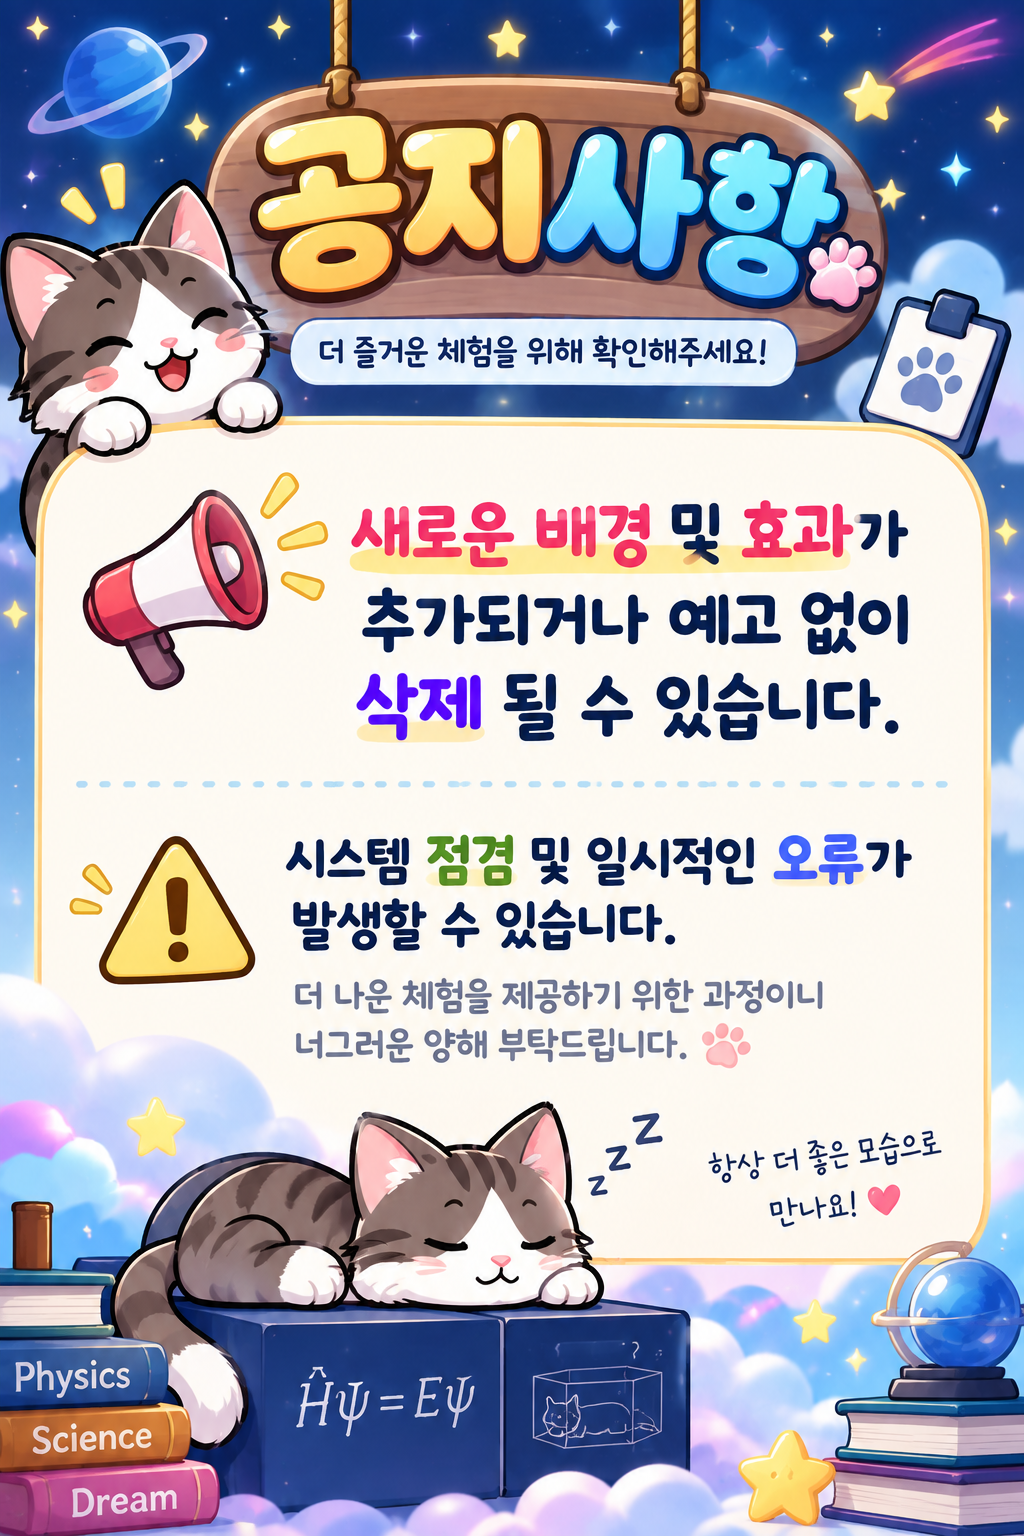
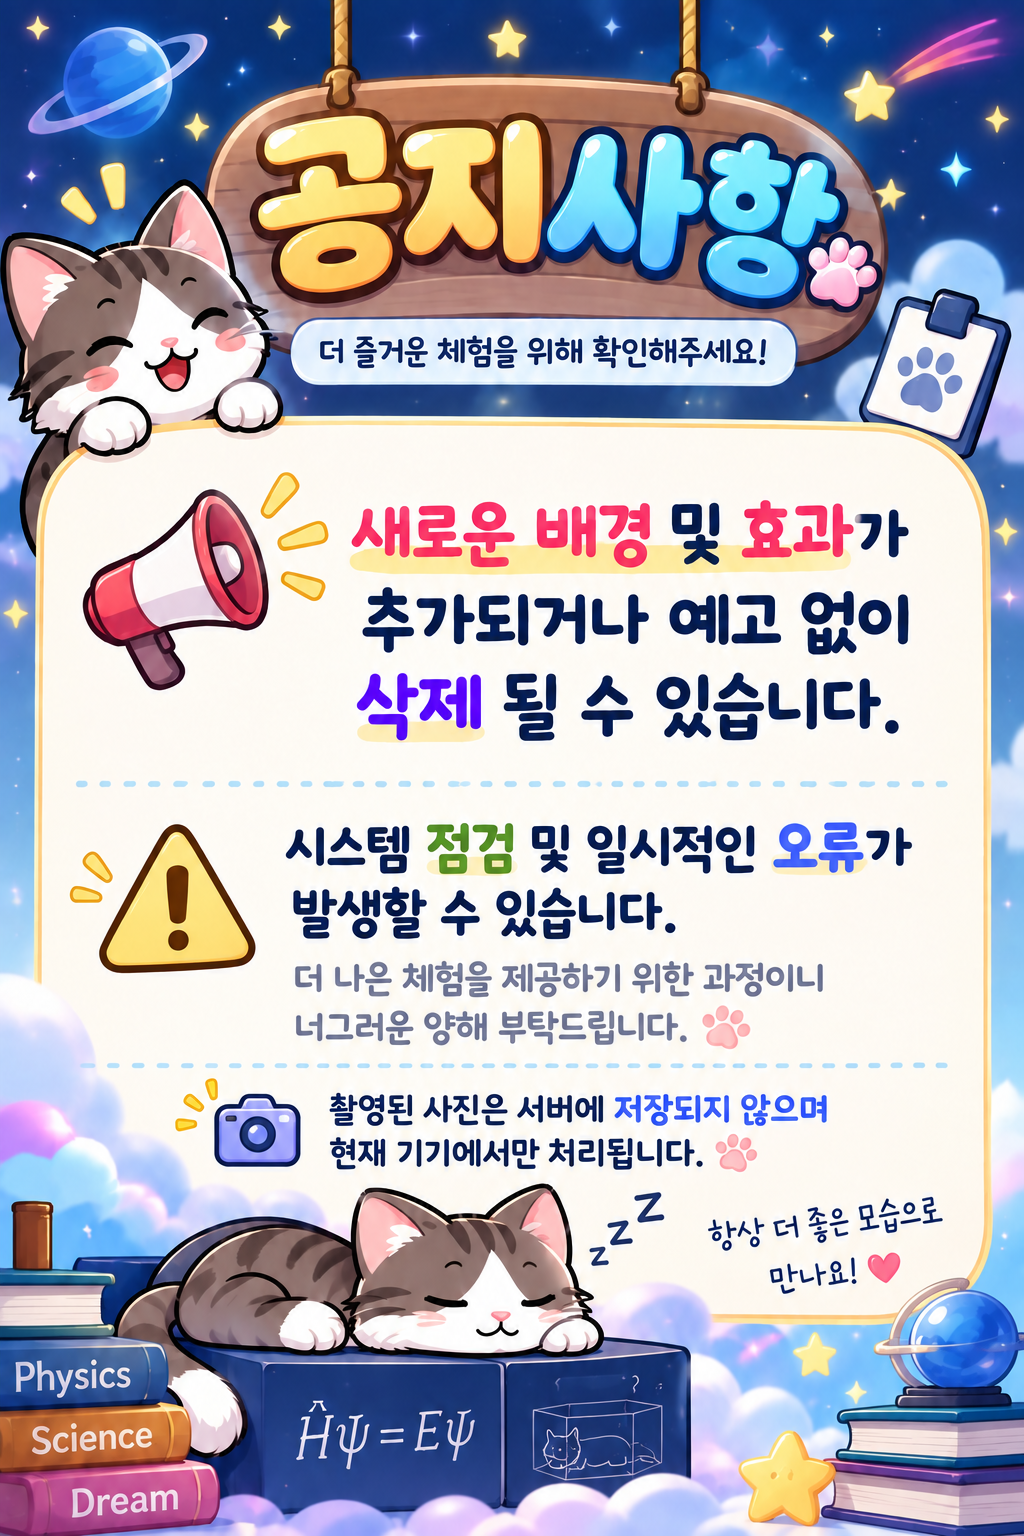
Add files via upload

diff --git a/js/ar.js b/js/ar.js
@@ -18,7 +18,8 @@ export class ARTracker {
   constructor(
     videoElement,
     stageElement,
-    canvasElement
+    canvasElement,
+    onFaceCountChange = null
   ) {
 
     this.videoElement =
@@ -56,6 +57,24 @@ export class ARTracker {
 
     this.effectRequestId =
       0;
+
+    /*
+      행사 환경에서 모바일 성능과 다인 촬영을 고려해
+      최대 3명까지 얼굴을 추적합니다.
+    */
+    this.maxFaces =
+      3;
+
+    this.lastFaceCount =
+      -1;
+
+    this.faceCountActive =
+      false;
+
+    this.onFaceCountChange =
+      typeof onFaceCountChange === "function"
+        ? onFaceCountChange
+        : null;
 
   }
 
@@ -118,12 +137,56 @@ export class ARTracker {
             delegate: "GPU"
           },
           runningMode: "VIDEO",
-          numFaces: 3,
+          numFaces: this.maxFaces,
           minFaceDetectionConfidence: 0.5,
           minFacePresenceConfidence: 0.5,
           minTrackingConfidence: 0.5
         }
       );
+
+  }
+
+
+  /* ========================================================
+     얼굴 인식 인원 안내
+     ======================================================== */
+
+  notifyFaceCount(
+    count,
+    active = true
+  ) {
+
+    const safeCount =
+      Math.max(
+        0,
+        Math.min(
+          Number(count) || 0,
+          this.maxFaces
+        )
+      );
+
+    if (
+      safeCount === this.lastFaceCount &&
+      active === this.faceCountActive
+    ) {
+      return;
+    }
+
+    this.lastFaceCount =
+      safeCount;
+
+    this.faceCountActive =
+      active;
+
+    if (this.onFaceCountChange) {
+
+      this.onFaceCountChange({
+        count: safeCount,
+        maxFaces: this.maxFaces,
+        active
+      });
+
+    }
 
   }
 
@@ -209,6 +272,11 @@ export class ARTracker {
     this.running =
       true;
 
+    this.notifyFaceCount(
+      0,
+      true
+    );
+
     this.lastVideoTime =
       -1;
 
@@ -245,6 +313,11 @@ export class ARTracker {
         null;
 
     }
+
+    this.notifyFaceCount(
+      0,
+      false
+    );
 
     this.clearCanvas();
 
@@ -394,10 +467,19 @@ export class ARTracker {
 
     this.clearCanvas();
 
-    if (
-      !result.faceLandmarks ||
-      result.faceLandmarks.length === 0
-    ) {
+    const faceLandmarks =
+      Array.isArray(
+        result.faceLandmarks
+      )
+        ? result.faceLandmarks
+        : [];
+
+    this.notifyFaceCount(
+      faceLandmarks.length,
+      true
+    );
+
+    if (faceLandmarks.length === 0) {
       return;
     }
 
@@ -409,7 +491,7 @@ export class ARTracker {
     */
     for (
       const landmarks
-      of result.faceLandmarks
+      of faceLandmarks
     ) {
 
       this.drawEffect(

diff --git a/js/app.js b/js/app.js
@@ -11,6 +11,7 @@
    5. GIF 버튼을 누르고 있는 시간만큼 GIF 촬영 (최대 3초)
    6. PNG / GIF 저장
    7. 시스템 공유창을 통한 이미지 공유
+   8. AR 얼굴 인식 인원 안내 (최대 3명)
    ============================================================ */
 
 
@@ -103,6 +104,12 @@ const characterTitleOverlay =
 const arOverlayCanvas =
   document.getElementById(
     "arOverlayCanvas"
+  );
+
+
+const arFaceCount =
+  document.getElementById(
+    "arFaceCount"
   );
 
 
@@ -294,7 +301,46 @@ const arTracker =
   new ARTracker(
     videoElement,
     cameraStage,
-    arOverlayCanvas
+    arOverlayCanvas,
+    ({
+      count,
+      maxFaces,
+      active
+    }) => {
+
+      if (!arFaceCount) {
+        return;
+      }
+
+
+      if (!active) {
+
+        arFaceCount.classList.remove(
+          "show",
+          "limit"
+        );
+
+        arFaceCount.textContent =
+          `얼굴 0/${maxFaces}명`;
+
+        return;
+
+      }
+
+
+      arFaceCount.textContent =
+        `얼굴 ${count}/${maxFaces}명`;
+
+      arFaceCount.classList.add(
+        "show"
+      );
+
+      arFaceCount.classList.toggle(
+        "limit",
+        count >= maxFaces
+      );
+
+    }
   );
 
 

diff --git a/css/style.css b/css/style.css
@@ -318,6 +318,54 @@ body {
 
 
 /* =========================================================
+   AR 얼굴 인식 인원 안내
+   ========================================================= */
+
+.ar-face-count {
+  position: absolute;
+
+  top: 10px;
+  right: 10px;
+
+  z-index: 8;
+
+  display: none;
+
+  min-width: 86px;
+
+  padding:
+    6px
+    10px;
+
+  border-radius: 999px;
+
+  background:
+    rgba(17, 24, 39, 0.78);
+
+  color: #ffffff;
+
+  font-size: 12px;
+  font-weight: 800;
+  line-height: 1;
+
+  text-align: center;
+
+  pointer-events: none;
+
+  user-select: none;
+}
+
+.ar-face-count.show {
+  display: block;
+}
+
+.ar-face-count.limit {
+  background:
+    rgba(37, 99, 235, 0.88);
+}
+
+
+/* =========================================================
    GIF 녹화 시간 표시
    ========================================================= */
 

diff --git a/index.html b/index.html
@@ -111,6 +111,16 @@
           aria-hidden="true"
         ></canvas>
 
+        <!-- AR 얼굴 인식 인원 안내 -->
+        <div
+          id="arFaceCount"
+          class="ar-face-count"
+          aria-live="polite"
+          aria-atomic="true"
+        >
+          얼굴 0/3명
+        </div>
+
         <!-- GIF 녹화 시간 표시: 0.0초 ~ 3.0초 -->
         <div
           id="gifTimer"
